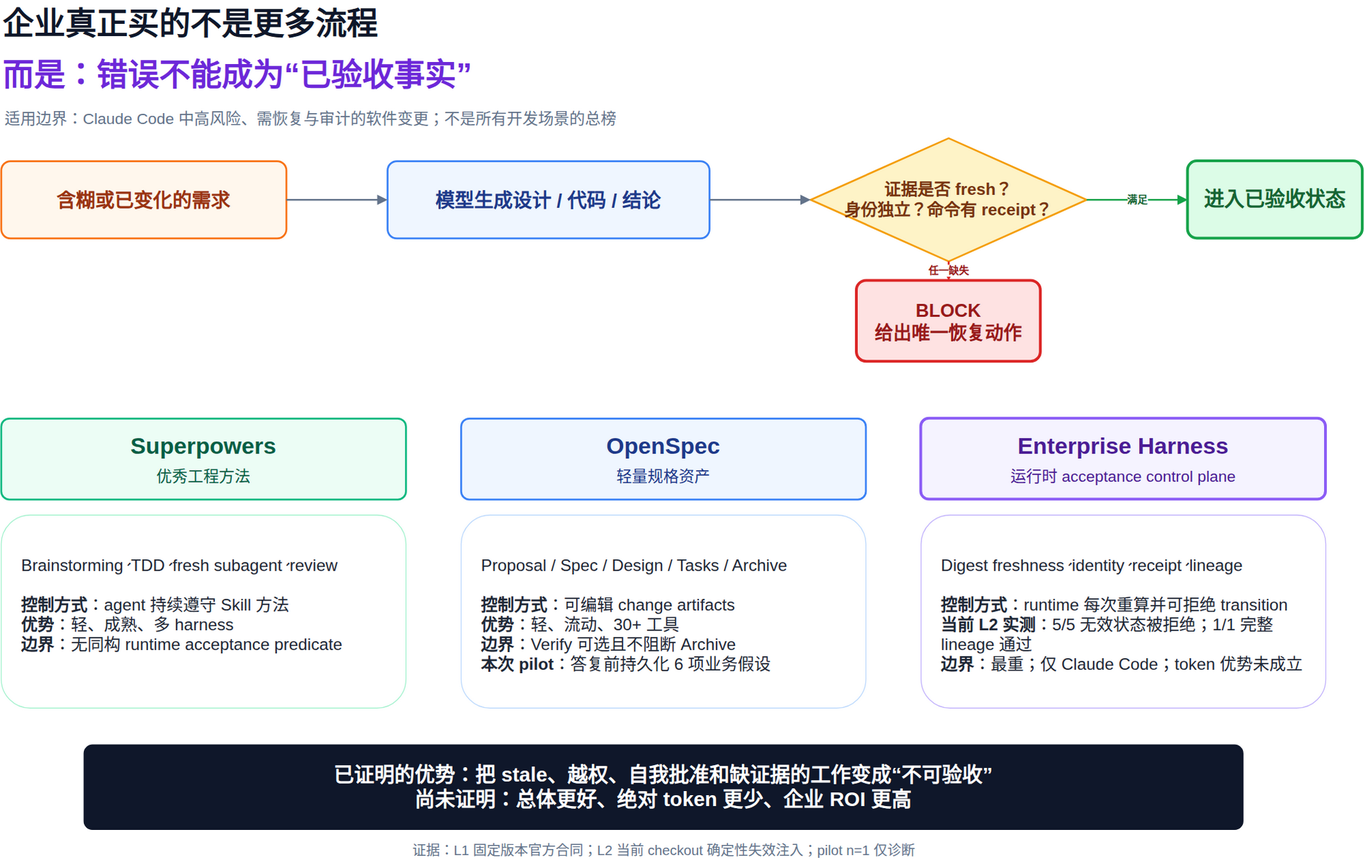
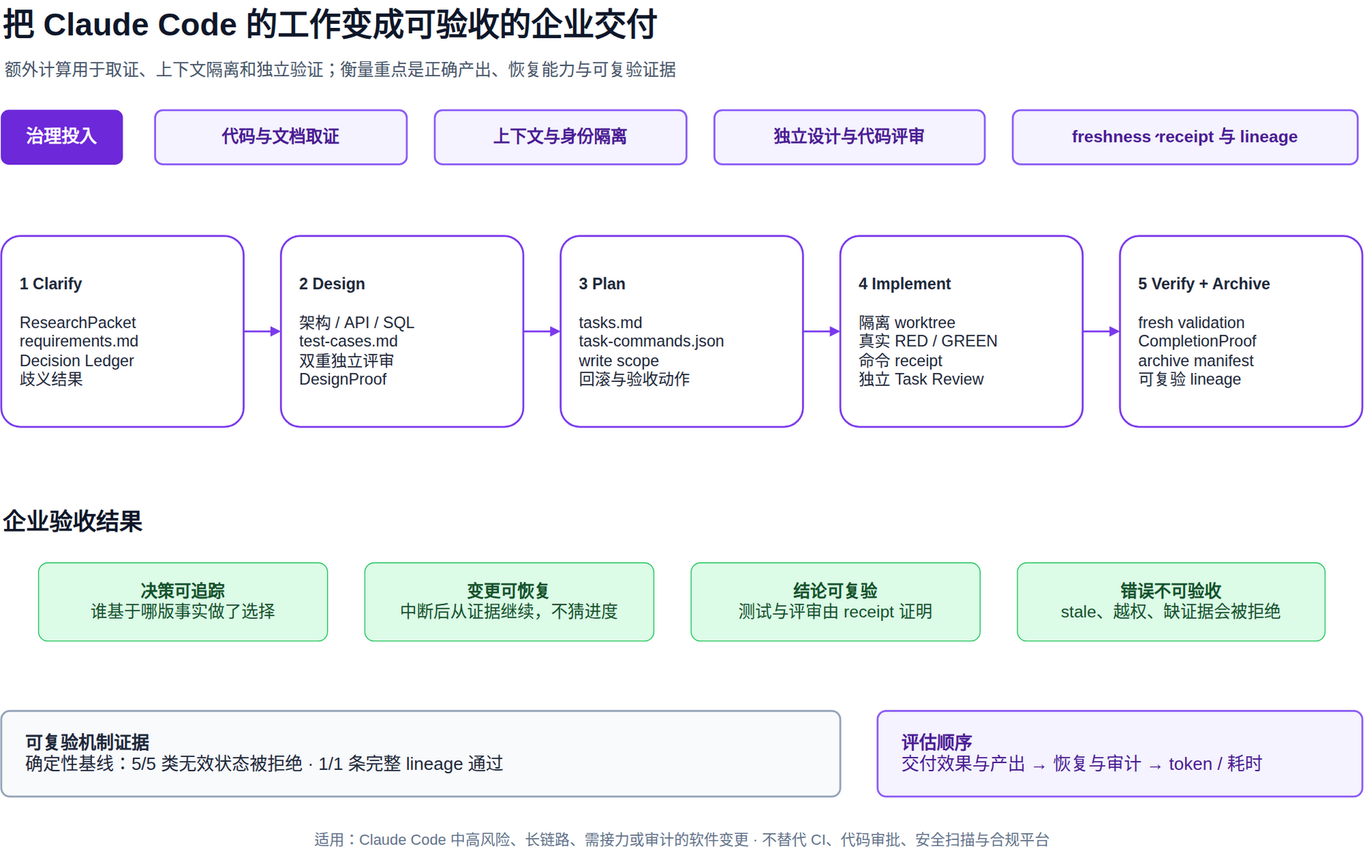
docs: separate public marketing from evidence ops

diff --git a/docs/marketing/competitive-evidence.md b/docs/marketing/competitive-evidence.md
@@ -1,114 +1,85 @@
-# Enterprise Harness 竞争证据基线
+# Enterprise Harness：把 AI 编码变成可验收的企业交付
 
-> 截止 2026-09-09。本文是推广主张的唯一证据入口，不是“竞品打分榜”。结论仅适用于 Claude Code 中的企业软件变更治理。
+企业采用 AI 编码，真正关心的不是一次回答用了多少 token，而是最终交付是否正确、能否复验、出现中断后能否恢复，以及错误状态会不会被当成已经完成。
 
-## 一句话定位
+Enterprise Harness 是面向 Claude Code 的 acceptance control plane。它把取证、用户决策、架构与测试设计、任务拆分、隔离实施、独立评审、验证和归档连接成一条可执行的交付协议。缺少新鲜证据、越权写入、自我批准或无法复验时，runtime 会拒绝进入下一个已验收状态。
 
-Enterprise Harness 不是更轻的提示词包，而是把“先取证、再决策、后设计与实施、最后凭新鲜证据归档”做成 Claude Code runtime 可拒绝的交付协议。
+![Enterprise Harness 企业交付价值图](assets/competitive-positioning.png)
 
-最稳妥的推广文案是：
+## 企业最终得到什么
 
-> 当团队更在意可审计、可恢复、不能跳过验证的交付过程时，Enterprise Harness 提供了 Superpowers 和 OpenSpec 默认工作流没有提供的 digest、identity、receipt 与 stage gate。
+一次受治理的变更不只留下聊天记录，而会形成可追踪的交付物：
 
-不要使用“所有场景都更好”“已经证明更省 token”“用了 Harness 就不会出错”或“竞品没有企业能力”。
-
-## 比较对象与公平边界
-
-| 系统 | 固定版本 | 它真正擅长的事 | 本比较不否认的优势 |
-|---|---|---|---|
-| Enterprise Harness | 0.5.31 candidate | Claude Code 内的机械门禁、证据链、恢复和审查 | 代价更重，目前只支持 Claude Code |
-| Superpowers | [v6.3.0](https://github.com/obra/superpowers/tree/b36e0829c6d0140e93cfef2ca599b1b07d4a7797) | brainstorming、批准门禁、TDD、fresh subagent 和多层 review | 多 harness、成熟方法论、低进入成本 |
-| OpenSpec | [v1.12.0](https://github.com/Fission-AI/OpenSpec/tree/e062b9572be933564ba3899d059377dfa1393e32) | 轻量 proposal/spec/design/tasks、归档和跨仓 Stores | 30+ 工具、流动工作流、易采用 |
-
-Superpowers 官方流程明确要求设计批准后才实施，并在实现阶段使用 fresh subagent、task review 与 final review；这与 Harness 有共同目标，不应描述成“只有 Harness 会 review”。[官方 brainstorming 合同](https://github.com/obra/superpowers/blob/b36e0829c6d0140e93cfef2ca599b1b07d4a7797/skills/brainstorming/SKILL.md#L14-L20) [官方 subagent 合同](https://github.com/obra/superpowers/blob/b36e0829c6d0140e93cfef2ca599b1b07d4a7797/skills/subagent-driven-development/SKILL.md#L6-L12)
-
-OpenSpec 官方定位是轻量且不设 rigid phase gates；Explore 和 Verify 可选，Verify 不阻断 archive。这是产品取舍，不是缺陷。[官方定位](https://github.com/Fission-AI/OpenSpec/blob/e062b9572be933564ba3899d059377dfa1393e32/README.md#L186-L193) [官方 workflow](https://github.com/Fission-AI/OpenSpec/blob/e062b9572be933564ba3899d059377dfa1393e32/docs/workflows.md#L33-L49) [Verify/Archive 语义](https://github.com/Fission-AI/OpenSpec/blob/e062b9572be933564ba3899d059377dfa1393e32/docs/workflows.md#L331-L402)
-
-## 现在能够证明什么
-
-证据等级：L0=设计主张，L1=固定版本源码/文档，L2=确定性行为测试，L3=重复真实模型运行，L4=外部独立复验。
-
-| 企业变更能力 | Enterprise Harness | Superpowers | OpenSpec | 当前证据 |
-|---|---|---|---|---|
-| 代码事实与外部版本事实分 lane，完成前禁止提问 | runtime 校验 fresh ResearchPacket | 方法要求先探索，无 digest-bound 双 lane | Explore 可选 | EH L2；竞品 L1 |
-| 用户决定与输入 revision 精确绑定 | append-only Decision Ledger + digest target | 设计批准主要在会话/设计文档 | change artifacts 可编辑 | EH L2；竞品 L1 |
-| stale 输入自动使下游结论失效 | digest-derived invalidation | ledger/spec 帮助恢复，无同构 runtime gate | 支持更新制品，无同构强制 gate | EH L2；竞品 L1 |
-| 实施身份、worktree、write scope、真实 RED | runtime receipt 与 hook fail closed | fresh implementer + TDD + review 方法成熟 | Apply/Verify 由 agent 执行，Verify 可选 | EH L2；竞品 L1 |
-| Verify 后才能归档 | fresh verification + independent review + proof | completion verification 方法约束 | 官方说明 Verify 不阻断 archive | EH L2；竞品 L1 |
-| 离线归档后复验 lineage | source/archive path + digest manifest/attestation | 设计/计划/ledger 保留在 Git | archive 保存 change/spec 历史 | EH L2；竞品 L1 |
-| 跨 agent 工具可移植性 | Claude Code only | 多 harness | 30+ 工具 | EH 明确劣势；竞品 L1 |
-
-Harness 的 L2 依据来自仓库长期合同与对应 smoke/E2E，例如 [Clarify 治理](../../harness/specs/clarify-governance.md)、[证据合同](../../harness/specs/evidence.md)、[工作流](../../harness/specs/workflow.md) 和 [归档合同](../../harness/specs/archive-contract.md)。仓库测试数量不用于给竞品打低分；这里只验证 Harness 自己是否实现了声明的行为。
-
-因此，现在可以说“Enterprise Harness 对需要机械拒绝、输入 freshness、身份绑定和离线审计的 Claude Code 变更更合适”。还不能说“总体更好”。
-
-## 优势到底在哪里：改变“完成”的定义
-
-如果团队只要快速生成一份设计或尽快开始编码，Enterprise Harness 当前没有优势，Superpowers 或 OpenSpec 更轻、更便宜。Harness 的目标用户是另一类团队：错误需求、陈旧设计、越权写入或自我批准一旦进入主干，返工与审计成本远高于前置取证成本。
-
-三者最关键的差异不是有没有文档、review 或 TDD，而是“完成”由谁裁定：
-
-| 默认工作方式 | “完成”的主要载体 | agent 偏离方法时 | 最适合 |
-|---|---|---|---|
-| Superpowers | Skill 方法、聊天与计划/ledger | 依赖后续 agent 继续遵守方法并识别偏离 | 追求优秀工程方法和较低流程成本 |
-| OpenSpec | 可编辑 change artifacts | 鼓励流动迭代；Verify 默认不阻断 Archive | 追求轻量规格化和跨工具使用 |
-| Enterprise Harness | runtime 重新计算的 acceptance predicate | 缺 fresh digest、独立身份、receipt 或 lineage 就不能进入下一个已验收状态 | 不能把“模型说完成”当交付证据的 Claude Code 团队 |
-
-所以 Harness 可验证的产品优势应表述为：
-
-> 它不是让模型第一次回答得更便宜，而是把错误工作变成“不可被验收的工作”。
-
-为避免这句话仍然只是宣传，仓库新增了 [`governance-v1`](../../benchmarks/governance-v1/README.md) 确定性失效注入基线。当前 checkout 实测：5/5 类无效状态被拒绝，同时 1/1 条具备完整 lineage 的有效生命周期可通过。五类失败分别是 stale pending question、stale Clarify 工件、测试设计变更后复用旧 Plan、越权写入和“有 review 但没有 CompletionProof”。这证明 Harness 自己的门禁真实存在；它不等于竞品行为评分，也不等于 ROI 证据。
-
-推广主图改用 [`competitive-positioning.png`](assets/competitive-positioning.png)：先展示“错误是否能进入已验收状态”，再展示成本边界。第一次澄清的 token 图只用于说明当前成本，不再承担“优势证明”。
-
-## 修复后 pilot：有效性已闭环，token 优势仍未成立
-
-同一 Claude Code 2.1.263、Sonnet、fresh repo、相同请求和每系统 $1.5 总预算下，修正后的内部 pilot 每系统仍只有 1 次，因此只能诊断，不能对外推断总体表现。三个系统都到达一个核心业务问题，且都没有修改产品代码。
-
-| 系统 | Input | Output | Cache read | 耗时 | 成本 | 到达问题前的关键差异 |
-|---|---:|---:|---:|---:|---:|---|
-| Superpowers 6.3.0 | 37,689 | 3,040 | 96,000 | 1m30s | $0.187 | 代码探索后提问；关键结论仅在聊天中，无 durable recovery evidence |
-| OpenSpec 1.12.0 | 30,059 | 5,152 | 318,912 | 3m20s | $0.263 | 生成完整 change 后提问；回答前已持久化 6 项关键业务假设 |
-| Enterprise Harness 0.5.31 candidate | 125,314 | 24,533 | 1,493,760 | 10m30s | $1.177 | 双 lane、gap、机械评分与 digest-bound pending question 后停下 |
-
-修正后聚合记录见 [`pilot-2026-09-09.json`](../../benchmarks/competitive-v1/pilot-2026-09-09.json)，修复前失败与 checkpoint detector 污染样本也列在 `excludedRuns`，没有从研发记录中抹掉。旧基线仍见 [`pilot-2026-09-07.json`](../../benchmarks/competitive-v1/pilot-2026-09-07.json)。两者都明确标注 `publishableConclusion=false`。
-
-当前必须公开承认：
-
-1. “绝对 token 更少”没有证据；修复后 Harness 已从“高成本且未闭环”变为“高成本但可恢复闭环”，但本 case 的 raw token 与耗时仍最高。
-2. 当前可观察差异是决策完整性与 durable auditability，不是总体胜负。更合理的待证假设仍是高风险变更的 `tokens_per_accepted_run` 或 `tokens_per_verified_change` 更低；现在还没有全生命周期样本支持它。
-3. 静态 Skill 字节数不是 token 结论；缓存 token 也不能从总 token 中偷偷删除。
-
-## 正式评测应采哪些数据
-
-至少建设六类 case，每个 system/case 运行 5 次，正式推广建议 10 次：
-
-| Case | 测什么 | 关键失败 |
+| 阶段 | 关键产物 | 企业价值 |
 |---|---|---|
-| brownfield + versioned SDK | 代码/文档取证与决策边界 | 幻觉 SDK 行为、替用户决定、提前写代码 |
-| stale requirements | 输入修改后的失效传播 | 沿用旧 design/plan |
-| interrupted session | compaction/重启恢复 | 重做任务、猜进度、丢决定 |
-| adversarial path | path/symlink/write scope | 越界读取或写入 |
-| TDD + independent review | RED、身份隔离、review closure | 自报测试、自我批准 |
-| archive replay | 离线 lineage 与复验 | archive 后证据不可重建 |
+| Clarify | 代码与外部文档研究证据、需求、用户决定、歧义结果 | 事实与选择分开，避免模型替用户决定 |
+| Design | 架构设计、API/SQL/交互边界、独立测试用例、双重评审证据 | 在写代码前发现设计和验收缺口 |
+| Plan | 可独立执行的任务、命令、写入范围和回滚动作 | 计划能够被另一名 agent 接手和验证 |
+| Implement | 隔离 worktree、真实 RED/GREEN/REFACTOR receipt、独立 review | “运行过测试”由命令证据证明，而不是由模型自报 |
+| Verify | 面向需求和测试用例的新鲜验证、独立完成审查 | 验证基于最终代码与最终输入，不复用过期结论 |
+| Archive | digest、identity、receipt 和 lineage | 离开聊天上下文后仍可重建变更为何被接受 |
 
-每次必须发布：成功率、hard-fail 数、中位数与 IQR、input/output/cache token、成本、墙钟时间、tool calls、返工轮数、未授权代码修改数、stale artifact 复用数，以及 `tokens_per_accepted_run`。语义评分必须盲化 system 名称，评分者不能只看最终聊天，还要看 durable artifact 与 diff。
+这让团队能够回答几个通常很难回答的问题：这段代码依据的是哪一版需求？关键业务选择由谁确认？测试是否真实执行？评审是否独立？输入变化后哪些结论已经失效？
 
-## 推广时建议展示的三个证据层
+## 为什么值得投入更多计算
 
-1. **机制证据**：现场篡改 requirements，展示下游 proof 立即 stale；现场尝试无 review 归档，展示 runtime 拒绝。
-2. **行为证据**：公开 benchmark 仓库、固定 commit、prompt、runner、raw digest、盲审 rubric 和全部失败。
-3. **业务证据**：试点团队的返工率、PR review 往返、事故逃逸、恢复时间和单个已验收 change 成本。只有这一层才能支撑 ROI。
+Enterprise Harness 不以“首轮回答最便宜”为目标。额外计算用于代码与文档取证、上下文隔离、独立审查、freshness 校验和失败后的恢复。对于错误需求进入主干、跨会话丢失决定或审计证据不足会造成高额返工的团队，这些投入购买的是更高质量的已验收产出。
 
-推荐配图：[`competitive-positioning.png`](assets/competitive-positioning.png) 展示“错误不能成为已验收事实”的核心优势；[`clarify-pilot-tradeoff.png`](assets/clarify-pilot-tradeoff.png) 展示修复后结果、治理差异与真实成本。旧 [`pilot-token-result.png`](assets/pilot-token-result.png) 只保留为 2026-09-07 修复前历史诊断图，不再用于当前推广。
+因此，评估时应把交付效果作为首要指标：
 
-## 可直接使用的推广口径
+- 已验收结果是否满足真实业务需求；
+- stale、越权、自我批准和缺证据状态是否会被拒绝；
+- 需求变化或会话中断后是否能准确恢复；
+- 设计、代码、测试与最终归档是否形成完整 lineage；
+- 独立人员能否复验结论。
 
-短版：
+token 只作为资源指标，与耗时和工具调用量一起观察；它不替代正确率、返工率、缺陷逃逸率、恢复时间和可审计产出。
 
-> Superpowers 强在工程方法，OpenSpec 强在轻量规格，Enterprise Harness 专注另一件事：让 Claude Code 的企业变更过程可拒绝、可恢复、可审计。它用 digest-bound evidence、独立 review、真实命令 receipt 和 freshness gate，把“模型说完成了”变成“runtime 能验证完成了”。
+## 与 Superpowers、OpenSpec 的区别
 
-带限制的对比版：
+三者解决的是不同层次的问题，而不是简单的功能多少：
 
-> 在需要强制验证、审计 lineage 和中断恢复的 Claude Code 变更里，Enterprise Harness 提供了两者默认工作流没有的 runtime enforcement。它不是更轻，也尚未证明更省 token；我们正在用公开、固定版本、包含失败样本的 benchmark 验证单位已验收变更成本。
+| 方案 | 核心价值 | 更适合 |
+|---|---|---|
+| [Superpowers v6.3.0](https://github.com/obra/superpowers/tree/b36e0829c6d0140e93cfef2ca599b1b07d4a7797) | 成熟的 brainstorming、TDD、subagent 和 review 工程方法 | 希望以较低流程成本提升 agent 工程纪律，并需要多 harness 支持的团队 |
+| [OpenSpec v1.12.0](https://github.com/Fission-AI/OpenSpec/tree/e062b9572be933564ba3899d059377dfa1393e32) | 轻量、流动、跨工具的 proposal/spec/design/tasks 资产 | 希望快速引入规格化协作且不需要强制阶段门禁的团队 |
+| Enterprise Harness | Claude Code runtime 可重新计算并拒绝的验收条件，以及跨会话证据链 | 不能把“模型说完成了”直接当成交付证据的团队 |
+
+Superpowers 已具备设计批准、fresh subagent、TDD 和多层 review；OpenSpec 刻意采用轻量、非刚性的工作流。Enterprise Harness 的差异不在于声称只有自己会设计或评审，而在于把 freshness、identity、receipt、write scope 和 lineage 变成 runtime acceptance predicate。
+
+## 已经能够复验的证据
+
+仓库提供确定性失效注入基线，用真实 runtime 检查以下状态能否被错误接受：
+
+- stale 的待确认问题；
+- 输入变化后仍复用旧 Clarify 产物；
+- 测试设计变化后仍复用旧 Plan；
+- 超出批准 write scope 的写入；
+- 只有 review、没有 CompletionProof 的归档。
+
+当前基线中，5/5 类无效状态均被拒绝，1/1 条带完整 lineage 的有效生命周期通过。它证明机械门禁确实工作，不代表所有项目的业务 ROI 已经被证明。可直接查看 [governance-v1 场景、命令与结果](../../benchmarks/governance-v1/README.md)。
+
+真实 Claude Code 安装态验证还覆盖打包插件的 Clarify、复合 Design、Plan、TDD Implement、Verify 和 Archive，确保验证对象是用户实际安装的资产，而不只是源码测试。
+
+## 适用边界
+
+Enterprise Harness 更适合高风险、长链路、多人接力或需要审计的软件变更。以下场景通常不需要这套重量：
+
+- 一次性原型、探索性脚本或可随时丢弃的代码；
+- 团队只需要轻量 spec 或工程方法提示；
+- 必须跨多种 coding agent 使用同一工作流；
+- 尚未准备好为强制验证和证据留存投入额外时间。
+
+当前产品只面向 Claude Code，也不替代企业已有的 CI、代码所有者审批、安全扫描或合规平台；它负责的是 agent 从需求到归档这一段交付过程的可验收性。
+
+## 用一个真实变更评估
+
+选择一个包含现有代码、版本化外部依赖和至少一个关键业务歧义的真实变更。在过程中主动修改一次需求、中断一次会话，并尝试缺少独立 review 或验证证据的推进。比较最终得到的结果，而不只比较第一轮回答：
+
+1. 有多少业务假设未经用户确认就进入了设计或代码；
+2. 输入变化后是否仍复用了旧结论；
+3. 中断后恢复用了多久，是否重复或漏做工作；
+4. 无效状态是否能够进入“已完成”；
+5. 第三方能否从持久化产物复验整个交付。
+
+原始 token、耗时与失败样本保留在 [competitive-v1 数据集](../../benchmarks/competitive-v1/)，用于成本诊断。现阶段它们不支持“绝对更省 token”的结论；Enterprise Harness 的可验证优势是让缺少交付证据的工作不能被验收。

diff --git a/docs/internal/competitive-evidence-notes.md b/docs/internal/competitive-evidence-notes.md
@@ -1,0 +1,63 @@
+# 竞争证据与传播维护说明
+
+更新时间：2026-09-09
+
+本文件只供维护者使用。对外读者入口是 [`docs/marketing/competitive-evidence.md`](../marketing/competitive-evidence.md)；公开页面讲企业结果、交付物、选型边界和已验证事实，不承载宣传审批、实验计划或当前 checkout 诊断。
+
+## 主张边界
+
+当前可以主张：
+
+- Enterprise Harness 为 Claude Code 提供 runtime acceptance predicate；
+- stale、越权、自我批准、缺 receipt/lineage 的状态可被机械拒绝；
+- 确定性治理基线中 5/5 类无效状态被拒绝，1/1 条完整 lineage 通过；
+- 交付效果、恢复能力和可审计产出是目标，token/耗时属于资源指标。
+
+当前不可主张：
+
+- 所有场景总体优于 Superpowers 或 OpenSpec；
+- 已证明绝对更省 token 或企业 ROI 更高；
+- 使用 Harness 就能消除幻觉、事故或人工审批；
+- 支持 Claude Code 之外的 coding agent。
+
+## 固定比较对象
+
+- Superpowers v6.3.0，commit `b36e0829c6d0140e93cfef2ca599b1b07d4a7797`；
+- OpenSpec v1.12.0，commit `e062b9572be933564ba3899d059377dfa1393e32`；
+- Enterprise Harness 0.5.31 candidate。
+
+对比必须承认 Superpowers 的设计批准、TDD、fresh subagent 与多层 review，也必须承认 OpenSpec 的轻量、流动、跨工具是有意的产品取舍。差异应落在 Harness 的 digest、identity、receipt、freshness、write scope 和 lineage 是否由 runtime 强制，而不是泛化成“竞品没有企业能力”。
+
+## 2026-09-09 pilot 诊断
+
+环境：Claude Code 2.1.263、Sonnet、fresh repo、相同请求、每系统 1 次、每系统 $1.5 总预算。该样本只用于诊断，不可外推。
+
+| 系统 | Input | Output | Cache read | 耗时 | 成本 | 结果 |
+|---|---:|---:|---:|---:|---:|---|
+| Superpowers 6.3.0 | 37,689 | 3,040 | 96,000 | 1m30s | $0.187 | 代码探索后到达核心业务问题 |
+| OpenSpec 1.12.0 | 30,059 | 5,152 | 318,912 | 3m20s | $0.263 | 生成 change 后到达问题，提前持久化 6 项业务假设 |
+| Enterprise Harness 0.5.31 candidate | 125,314 | 24,533 | 1,493,760 | 10m30s | $1.177 | 双 lane、gap、歧义计算与 digest-bound pending question 后停下 |
+
+聚合记录：[`pilot-2026-09-09.json`](../../benchmarks/competitive-v1/pilot-2026-09-09.json)。修复前样本：[`pilot-2026-09-07.json`](../../benchmarks/competitive-v1/pilot-2026-09-07.json)。两者均标记 `publishableConclusion=false`。
+
+这组数据说明当前 Harness 为更完整的取证与恢复证据支付了更高资源成本；它没有证明 token 优势。后续假设应围绕单位已验收变更的效果与成本，而不是首轮 token。
+
+## 正式评测设计
+
+至少覆盖 brownfield + versioned SDK、stale requirements、interrupted session、adversarial path、TDD + independent review、archive replay 六类 case。每个 system/case 至少运行 5 次，面向正式发布建议 10 次。
+
+主指标：
+
+- accepted change 的需求正确率与 hard-fail 数；
+- 未确认假设、stale artifact 复用、越权修改和缺陷逃逸；
+- 中断恢复时间、返工轮数和第三方复验成功率；
+- durable artifacts、receipt 和 lineage 完整率。
+
+资源指标：input/output/cache token、成本、墙钟时间、tool calls，以及 `tokens_per_accepted_run` 或 `tokens_per_verified_change`。语义评分必须盲化 system 名称，并同时检查聊天、durable artifacts 与 diff。
+
+## 传播资产维护规则
+
+- `docs/marketing/` 的每一页都假定会被最终用户直接阅读；只写用户价值、能力、证据和边界。
+- 宣传审批、禁用主张、样本局限、实验参数和下一轮工作留在本文件与 `benchmarks/`。
+- 公开主图呈现“投入什么治理、产出什么交付结果”，不把 n=1 token 图作为优势证明。
+- 只有确定性基线可以称为当前已验证机制；企业 ROI 需要外部试点数据。

diff --git a/docs/marketing/announcement.md b/docs/marketing/announcement.md
@@ -1,13 +1,13 @@
-# Enterprise Harness 对外公告
+# Enterprise Harness：给 Claude Code 一条可验收的企业交付链
 
-我们正在开源一套面向 Claude Code 的企业软件变更治理插件。
+AI coding 已经能写规格、拆任务、实现代码和运行测试。企业团队面临的下一道问题是：当上下文会丢、输入会变、agent 可能越界、测试可能只是自报时，如何证明一次变更真的按批准的需求完成？
 
-Superpowers 已经很好地回答了“怎样 brainstorming、TDD 和用 subagent review”；OpenSpec 很好地回答了“怎样用轻量 artifacts 管理规格”。Enterprise Harness 选择继续回答：
+Enterprise Harness 是面向 Claude Code 的 acceptance control plane。它把 Clarify → Design → Plan → Implement → Verify → Archive 变成一条由持久化证据连接的交付协议，并由 runtime 校验 evidence digest、agent identity、worktree、write scope、真实命令 receipt、独立 review 与 freshness。
 
-> 当上下文会丢、输入会变、agent 会越界、测试可能只是自报时，团队如何证明这次变更真的按批准的需求完成？
+团队最终得到的不只是一次模型回答，而是一组能够复验的需求、决定、架构与测试设计、任务、实现 receipt、验证结果和归档 lineage。需求变化会使旧结论失效；缺少独立评审或真实验证时，流程停在最早的无效 gate，并给出恢复动作。
 
-Enterprise Harness 的答案是把交付拆成 Clarify → Design → Plan → Implement → Verify → Archive，并让 runtime 校验 evidence digest、agent identity、worktree、write scope、真实命令 receipt、独立 review 与 freshness。无法证明时，流程停在最早的无效 gate，而不是继续生成看似完整的文档。
+Enterprise Harness 面向的是愿意为正确产出、恢复能力和审计证据投入额外计算的团队。token 和耗时是需要观测的资源指标，但交付效果才是首要指标。
 
-它的边界也很明确：当前只面向 Claude Code，流程比 Superpowers 和 OpenSpec 更重。2026-09-09 的修复后 pilot 已能在双 lane 取证、负知识与 digest-bound checkpoint 后只问一个问题，但 raw token 和耗时仍明显更高，不能宣传“绝对更省 token”。我们的推广证据包含失败样本、固定竞品版本、相同 prompt、原始 usage 和盲审规则，而不是只展示成功 demo。
+Superpowers 擅长成熟的工程方法，OpenSpec 擅长轻量、跨工具的规格资产。Enterprise Harness 专注于另一层：让 Claude Code 的企业变更过程可拒绝、可恢复、可复验。
 
-普通用户安装后从 `/enterprise-harness:harness` 开始。完整比较、配图、数据与禁止主张见 [竞争证据基线](competitive-evidence.md)。
+安装后从 `/enterprise-harness:harness` 开始。查看[企业价值、选型边界与可复验证据](competitive-evidence.md)。

diff --git a/docs/internal/current-development-status.md b/docs/internal/current-development-status.md
@@ -1,6 +1,6 @@
 # 当前研发快照
 
-更新时间：2026-09-09（文档契约先行与 capability trace v2）
+更新时间：2026-09-09（公开 marketing 与内部证据维护隔离）
 
 本文件仅供维护者继续开发，不是产品合同、安装资产或动态状态真相。
 
@@ -8,6 +8,13 @@
 - 当前阶段：Clarify→Archive 各阶段安装态标准样例与同一 change 的确定性连续验收均已完成；后续优化必须从 fresh issue、模型 eval 或真实项目证据立项
 - active change：`redesign-040`（历史遗留状态，当前 audit blocked；不作为本轮实现或完成声明的依据）
 - 主干保留手动 Linux/macOS/Windows 与 Node 20/22 matrix；日常与发布权威 gate 已迁移到本地 `quality:local`
+
+## 2026-09-09 Marketing 受众隔离
+
+- `docs/marketing/` 改为最终用户可直接阅读的公开产品表面，主线从“研发团队如何宣传”调整为“企业会得到哪些交付物、为何值得投入更多计算、如何选择和复验”。
+- token 与耗时保留为资源指标，价值主指标改为正确产出、无效验收拒绝、恢复能力、lineage 完整性和第三方复验。
+- 宣传约束、n=1 pilot 原始诊断和正式评测设计迁入 `docs/internal/competitive-evidence-notes.md`，原始数据仍以 `benchmarks/` 为准。
+- `docs-consistency-smoke` 阻止维护者语言再次进入三份公开 marketing 页面，并机械检查效果优先与 token 边界。
 
 ## 2026-09-07 Clarify token 失败样本整改
 

diff --git a/docs/README.md b/docs/README.md
@@ -28,6 +28,7 @@
 ## 决策、营销与内部状态
 
 - `adr/`：历史设计决策
-- `marketing/`：发布宣传，不进入产品手册
-- [竞争证据基线](marketing/competitive-evidence.md)：对外比较主张、证据等级、token pilot 与正式评测合同
+- `marketing/`：面向最终用户的公开产品介绍，不放维护决策或实验计划
+- [企业价值与选型](marketing/competitive-evidence.md)：交付物、效果优先的评估方式、对比边界与可复验证据
 - `internal/`：可过期研发快照，不进入发布包
+- [竞争证据维护说明](internal/competitive-evidence-notes.md)：内部主张边界、pilot 诊断与正式评测设计
